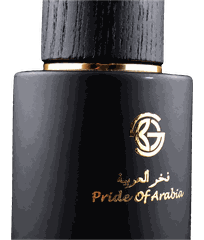
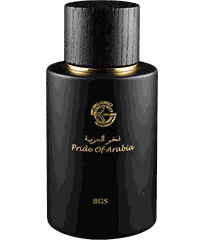
Use the whole Pride of Arabia bottle for EDP Sprays
The owner supplied a full shot of the bottle, cap and base included, to replace
the cropped one. It came with a painted checkerboard like the others and is
keyed the same way (light, colourless background connected to the frame), then
set on the 204x240 breakout canvas, so it rises and stands like the other three.

diff --git a/HANDOFF.md b/HANDOFF.md
@@ -489,7 +489,7 @@ raw background Bash. Use the Browser pane's `preview_start` with the `bgs-flow` 
    same way, each normalised to a 204x240 canvas so they rise and sit alike:
    Attars/Perfume Oils (`assets/cat/attars.png`, the Royal Amber and BGS
    bottles), Bakhoor (`bak.png`, the BGS BAKHOOR 4 tin), EDP Sprays (`edp.png`,
-   Pride of Arabia, cropped by its photo at the cap and the base) and Corporate
+   the whole Pride of Arabia bottle) and Corporate
    Gifting (`corporate.png`, a skyscraper photographed looking steeply up: its
    perspective was partly straightened, roof 36% of the base instead of 19%, and
    it was cut on a window line for a flat base). The owner rejected a version
